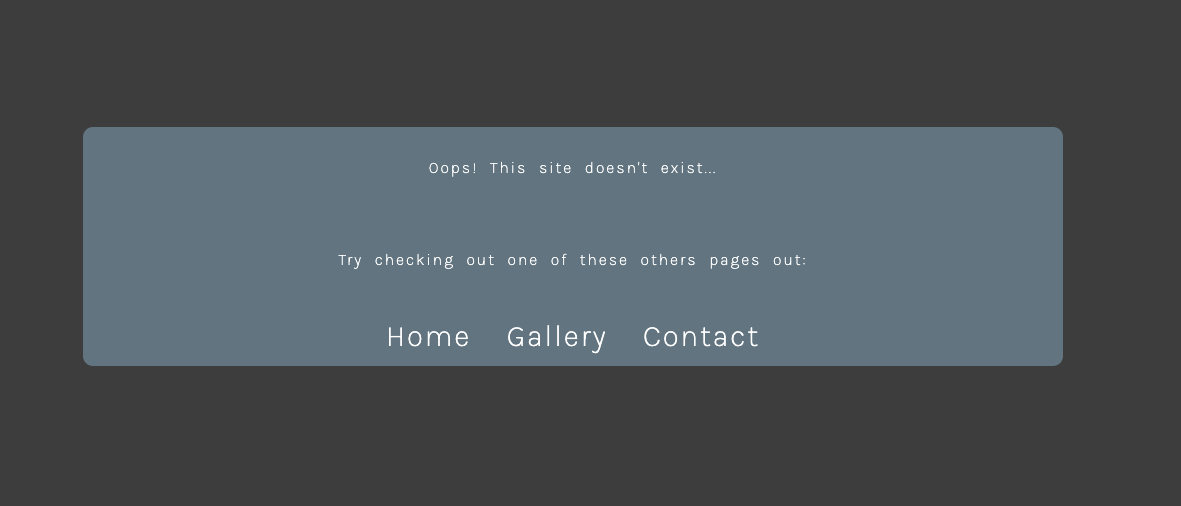
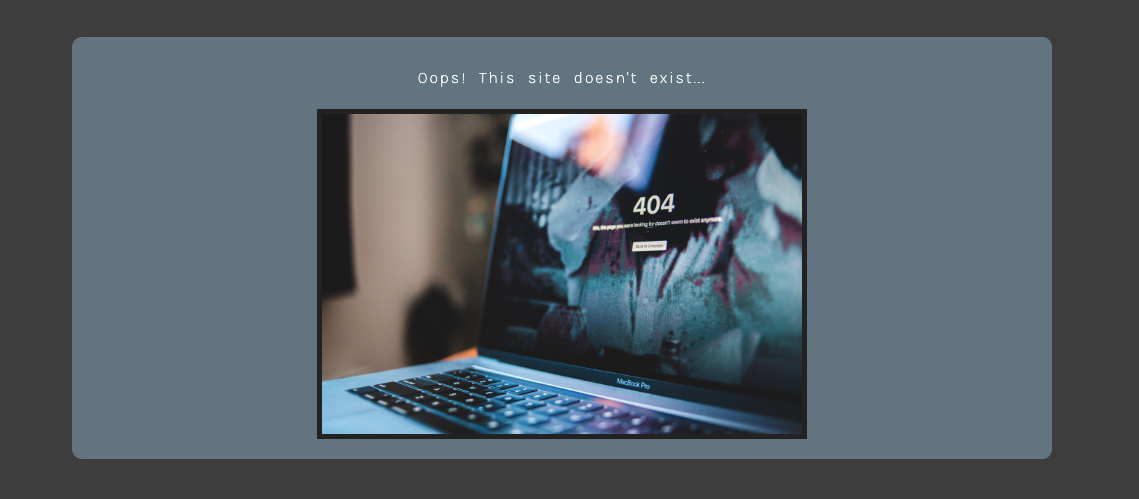
updated 404 error message replacing text with image

diff --git a/404.html b/404.html
@@ -32,14 +32,9 @@
         <p>
             Oops! This site doesn't exist... 
         </p>
-        <br>
-        <p>
-            Try checking out one of these others pages out:
-        </p>
-        <br>
-        <a href="index.html">Home</a>
-        <a href="gallery.html">Gallery</a>
-        <a href="contact.html">Contact</a>
+        <div class="404-image">
+            <img src="assets/images/404_error_image.jpg" alt="laptop displaying webpage error">
+        </div>
     </div>
 
     <footer>

diff --git a/assets/css/style.css b/assets/css/style.css
@@ -263,17 +263,12 @@ textarea{
     line-height: 30px;
 }
 
-.page-message a{
-    color: inherit;
-    font-size: 30px;
-    font-weight: 500;
-    text-decoration: none;
-    padding: 12px;
-}
-
-.page-message a:hover{
-    background-color: #262a2ea4;
-    border-radius: 5px;
+.page-message img{
+    width: 50%;
+    height: auto;
+    margin: auto;
+    background-color: #222223;
+    padding: 5px;
 }
 
 /* Media queries */

diff --git a/form_submission.html b/form_submission.html
@@ -32,14 +32,6 @@
         <p>
             Thanks for your email ! I'll try and get back to you as soon as I can.
         </p>
-        <br>
-        <p>
-            Try checking out one of these others pages out:
-        </p>
-        <br>
-        <a href="index.html">Home</a>
-        <a href="gallery.html">Gallery</a>
-        <a href="contact.html">Contact</a>
     </div>
 
     <footer>

diff --git a/README.md b/README.md
@@ -62,7 +62,7 @@ This control over the presentation of the material means this website's design w
 
 - 404 Error Page
   - The 404 error page is where the visitor is sent if an incorrect URL is entered.
-  - It let's them know there's a mistake in the URL and then gives them options to navigate back to the site.
+  - It let's them know there's a mistake in the URL and they can navigate back using the nav bar in the header.
 
 ![404 Error Message](/assets/readme_images/404_message.png)
 
